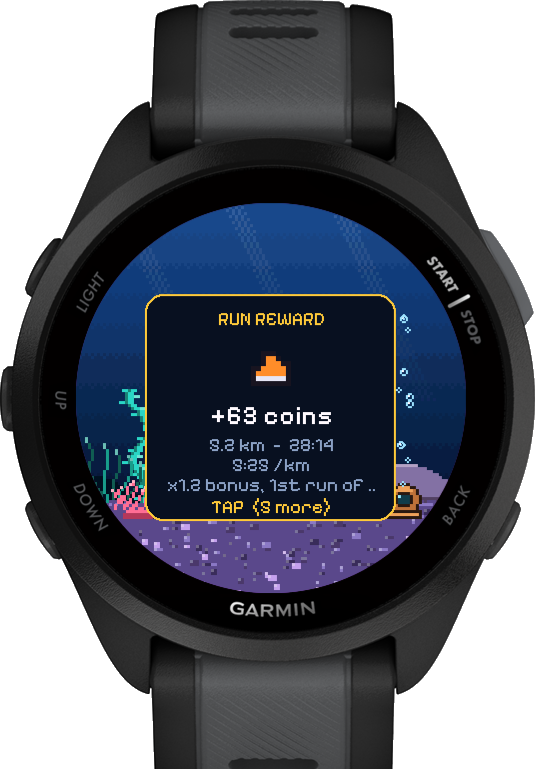
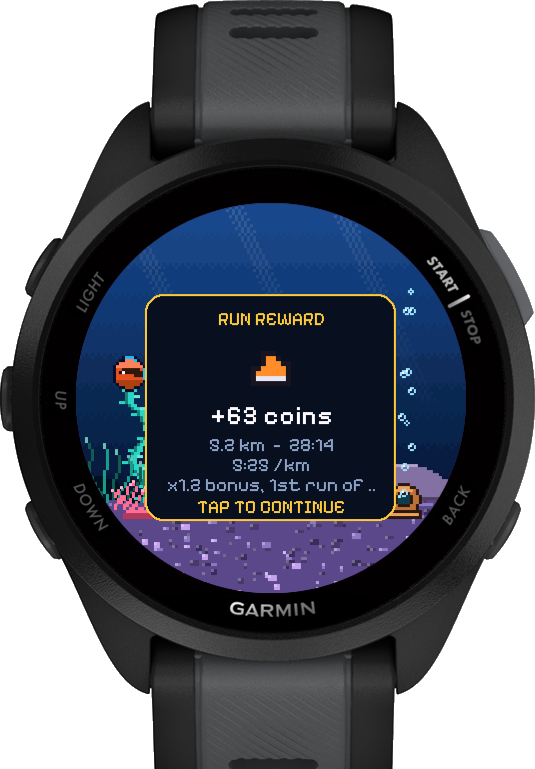
FISH TANK: README with features and screenshots
Also re-captures the run-reward card without the leftover cards from
screenshot mode.

diff --git a/Fish Tank App/README.md b/Fish Tank App/README.md
@@ -1,0 +1,49 @@
+# FISH TANK: Pocket Aquarium
+
+Connect IQ device app untuk Forerunner 165 / 165 Music (390×390 AMOLED). Akuarium pixel-art yang dirawat, dikoleksi dan didekorasi. Koin utamanya datang dari lari: lari dengan app Run bawaan Garmin, lalu buka FISH TANK dan setiap lari baru dibayar satu kali (100 m = 1 koin, maks 300/hari).
+
+![FISH TANK](../docs/previews/fish-tank.jpg)
+
+## Fitur
+- **Move:** Run-to-Earn dari riwayat aktivitas, Step Hunter (3k/5k/8k/10k), consistency streak mingguan, distance milestone 25–500 km, Activity Journal.
+- **Collect:** 36 spesies di 5 habitat, Fishdex, telur yang menetas lebih cepat kalau lari, varian Shiny/Golden/Ghost/Giant, personality, level ikan, evolusi, breeding.
+- **Care + Build:** makan (makanan favorit), bersih, habitat synergy, 16 dekorasi di Build mode, aquarium level 1–5, rating bintang.
+- **Explore:** 5 region ekspedisi (2 membuka tema baru), mini-game Bubble Pop, Treasure Dive, Fish Racing.
+- **Compete:** quest harian/mingguan, 31 trophy, Aquarium League pribadi.
+- **Tampilan:** 3 art style (Modern Pixel, Minimalist, Pseudo-3D) × 6 tema, font Pixelify Sans, menu pixel custom.
+
+## Screenshot
+
+| Modern Pixel | Minimalist | Pseudo-3D |
+|---|---|---|
+| ![](docs/screens/modern-tropical.png) | ![](docs/screens/minimal-fresh.png) | ![](docs/screens/tank-depth-frozen.png) |
+
+| Menu | Shop | Fishdex |
+|---|---|---|
+| ![](docs/screens/screen-menu.png) | ![](docs/screens/screen-shop-fish.png) | ![](docs/screens/screen-fishdex.png) |
+
+| Run reward | Quests | Activity |
+|---|---|---|
+| ![](docs/screens/card-run.png) | ![](docs/screens/screen-quests.png) | ![](docs/screens/screen-activity.png) |
+
+| Bubble Pop | Treasure Dive | Fish Racing |
+|---|---|---|
+| ![](docs/screens/screen-game-bubble.png) | ![](docs/screens/screen-game-dive.png) | ![](docs/screens/screen-game-race.png) |
+
+| Expedition | Trophies | Build mode |
+|---|---|---|
+| ![](docs/screens/screen-expedition.png) | ![](docs/screens/screen-trophies.png) | ![](docs/screens/build.png) |
+
+Semua screenshot ada di [`docs/screens/`](docs/screens/).
+
+## Build & test
+
+```powershell
+.\tools\build.ps1            # build fr165 + fr165m ke bin\
+.\tools\build.ps1 -Run       # build dan jalankan di simulator
+.\tools\build.ps1 -Test      # unit test di simulator
+.\tools\capture.ps1 -Matrix  # screenshot semua style x tema
+.\tools\capture.ps1 -Screens # screenshot semua menu dan mini-game
+```
+
+Font: Pixelify Sans oleh Stefie Justprince, SIL Open Font License 1.1 ([`fonts/src/OFL.txt`](fonts/src/OFL.txt)).
